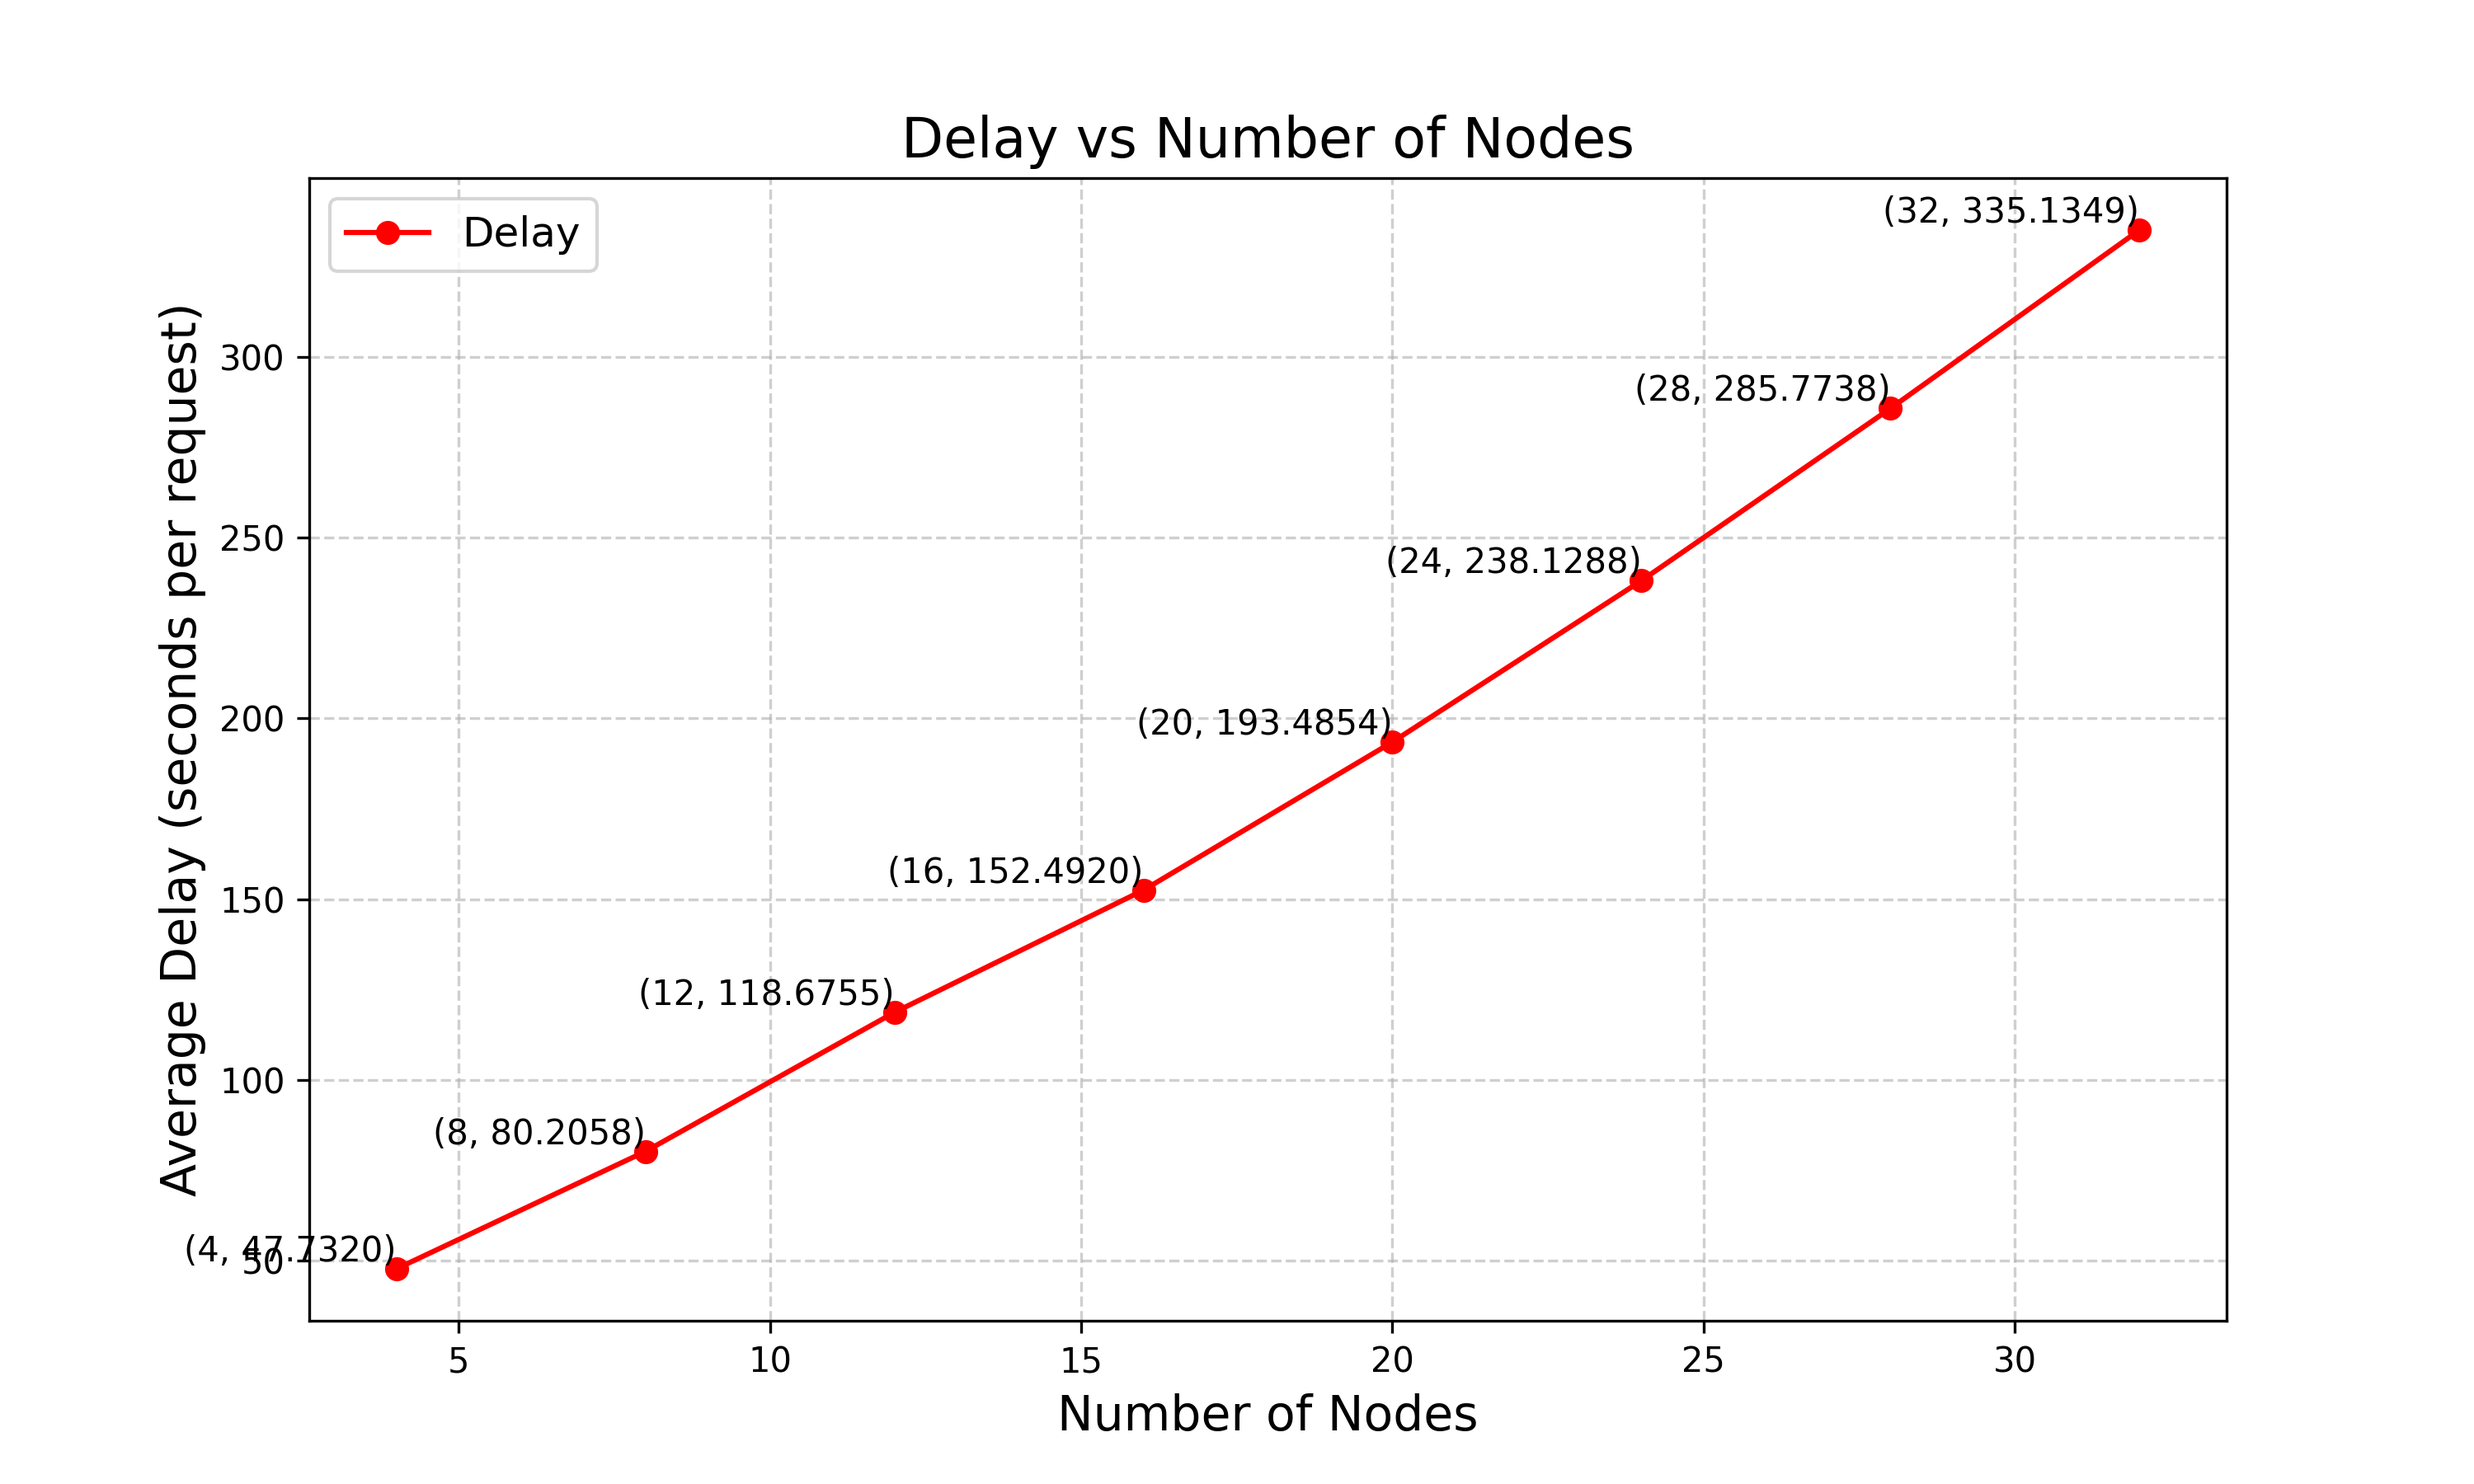
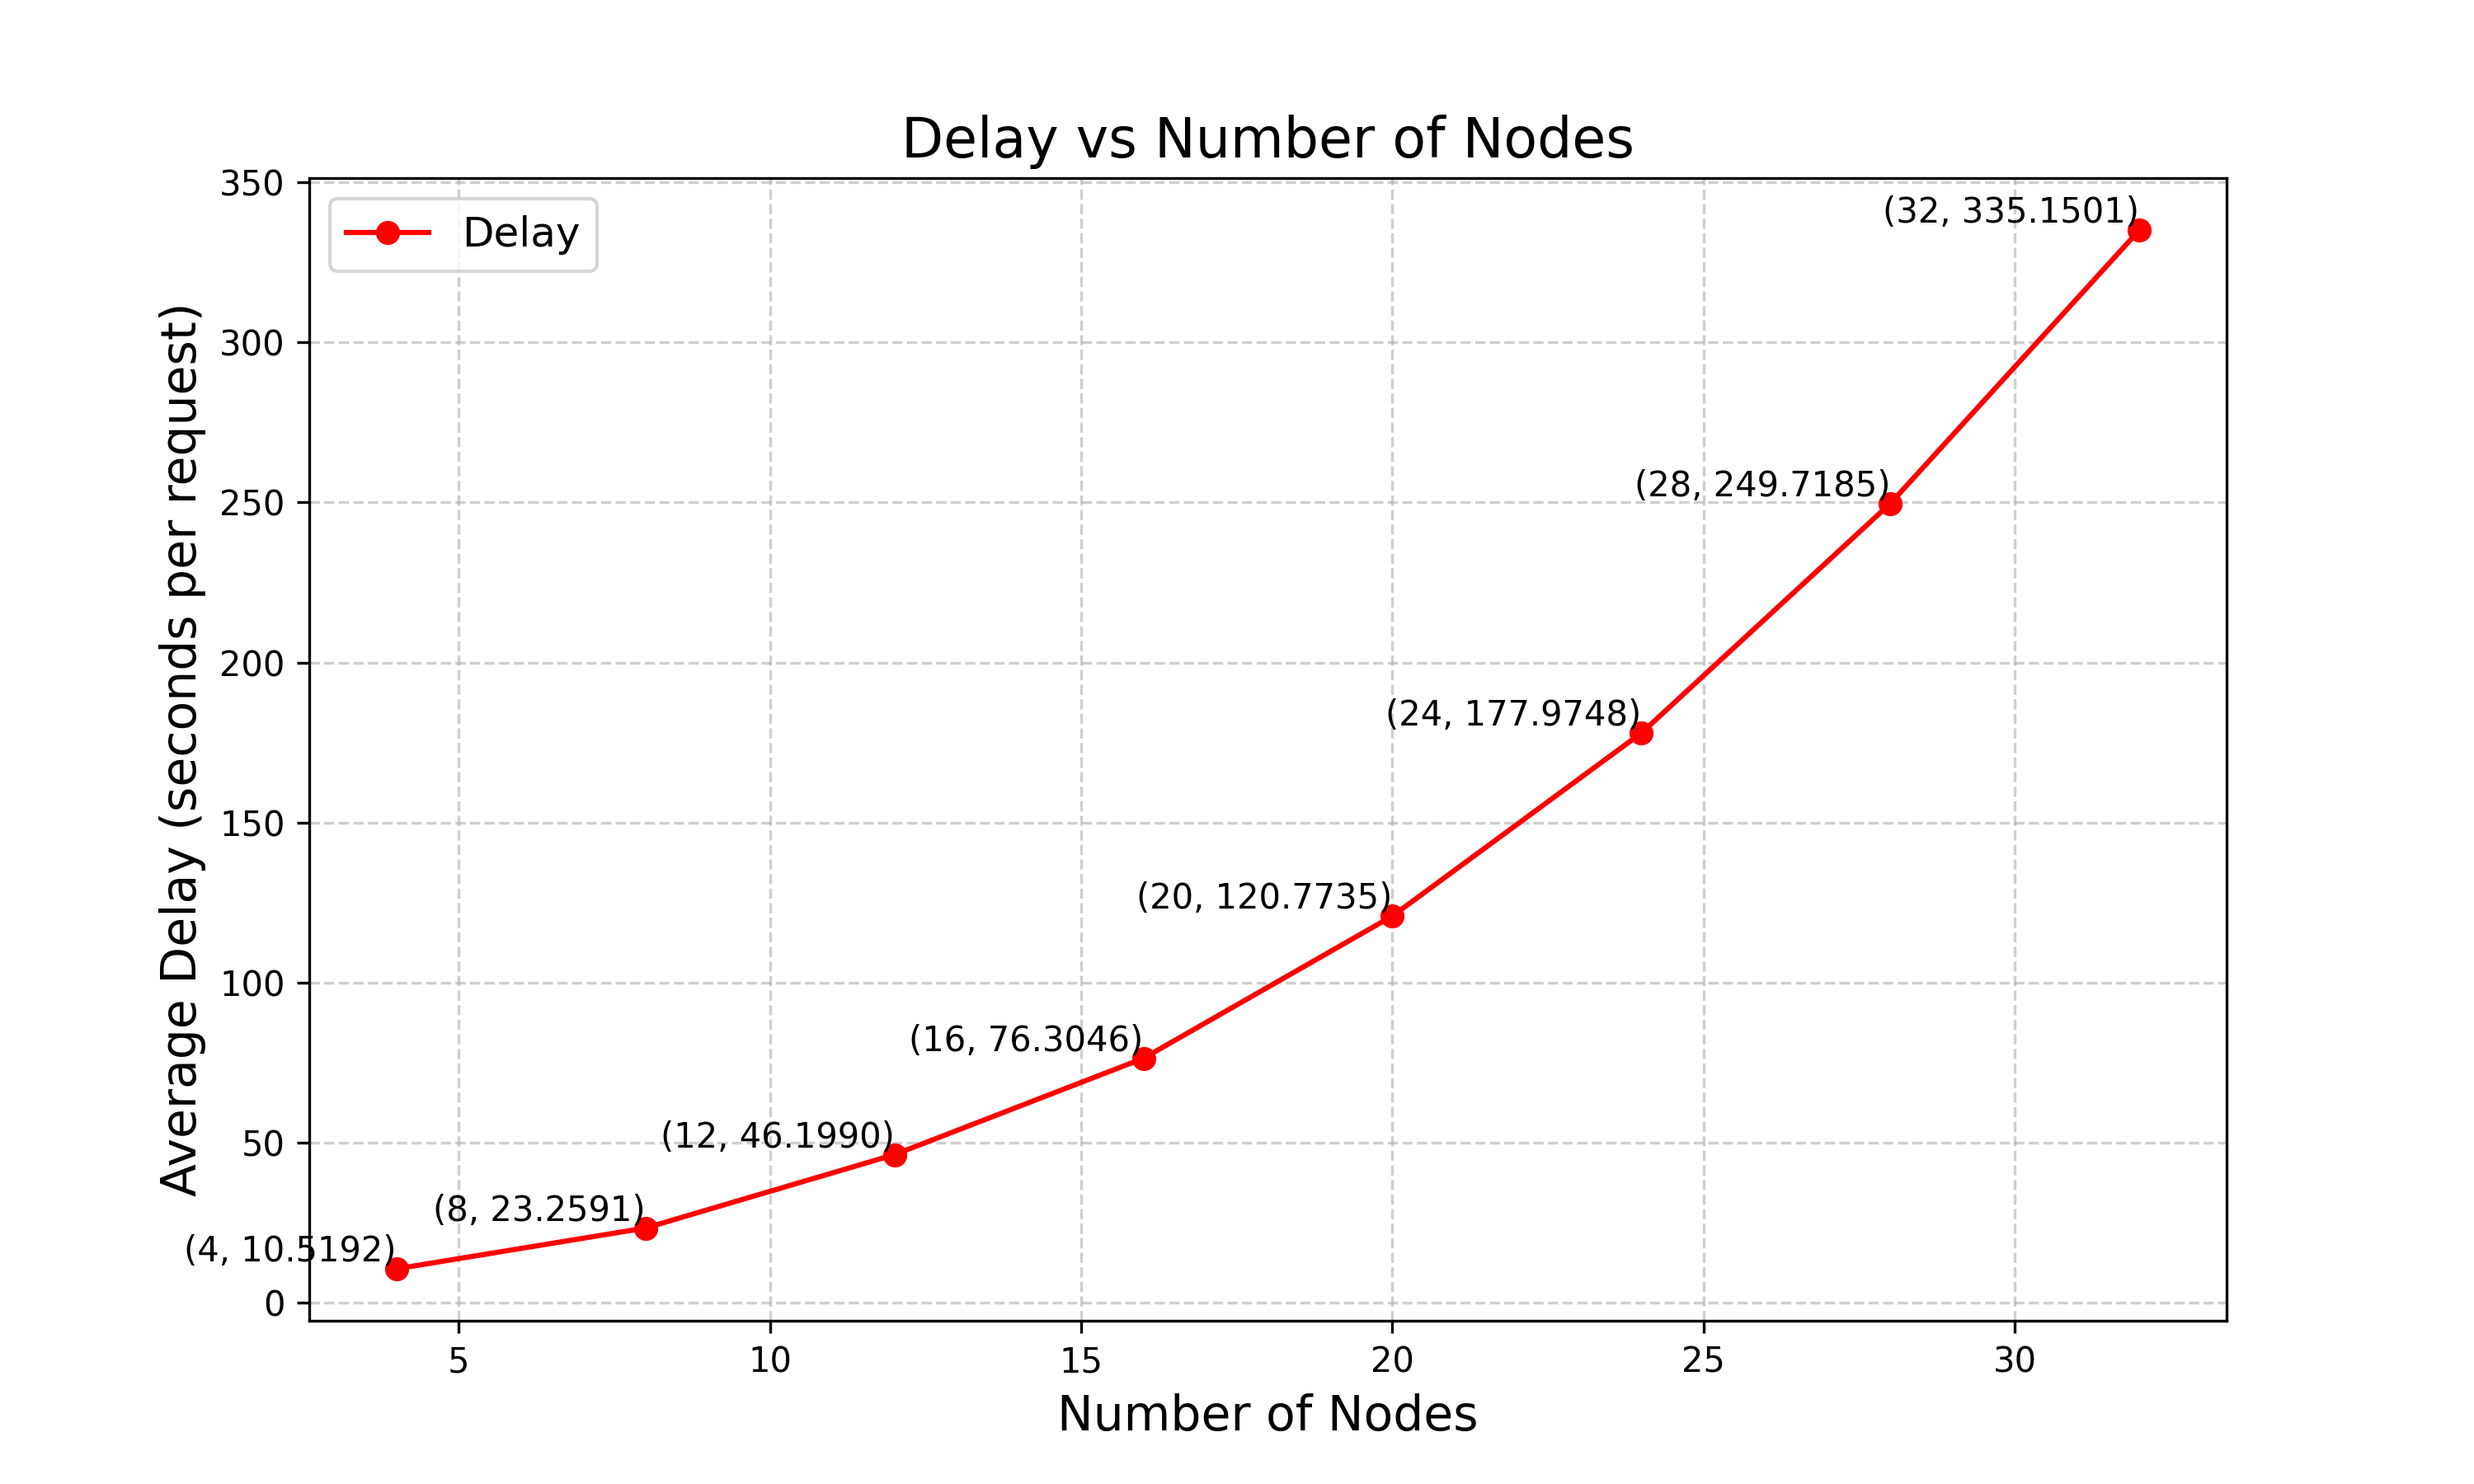
Results with varying node count hopefully done

diff --git a/cloudDelay.py b/cloudDelay.py
@@ -1,53 +1,75 @@
 import re
 from collections import defaultdict
+from ExperimentConfig import (numberOfPortsTakenInExperiment, experimentXAxis, BatchSize,
+                              fileExtName, folderPath, faultPorts, faultName)
 
-from ExperimentConfig import numberOfPortsTakenInExperiment, experimentXAxis, BatchSize, fileExtName
+def calculate_average_delay(folder, ports):
+    """
+    Calculates the average delay for the first 1000 commands by considering issued and all executed timestamps across multiple files.
 
-def calculate_average_delay(file):
-    # Dictionary to store command timestamps
-    command_timestamps = defaultdict(dict)  # Structure: {command: {"issued": timestamp, "executed": timestamp}}
+    :param folder: Path to the folder containing log files.
+    :param ports: List of port numbers to process.
+    :return: Overall average delay (in milliseconds).
+    """
+    # Dictionary to store all timestamps for commands
+    command_timestamps = defaultdict(lambda: {"issued": None, "executed": []})  # {"command": {"issued": timestamp, "executed": [timestamps]}}
+
+    # Process all log files
+    for port in ports:
+        filename = f"{folder}/{port}_log.txt"
+        with open(filename, 'r') as f:
+            lines = f.readlines()
+            for line in lines:
+                # Match `command:` lines that do NOT contain "Executing" (for issued timestamp)
+                if "command:" in line and "Executing" not in line:
+                    command_match = re.search(r'command: ([\d_]+) (\d+)', line)
+                    if command_match:
+                        command = command_match.group(1)  # e.g., "1_0"
+                        # Only consider the first 1000 commands (e.g., "1_0" to "1_999")
+                        node_id, command_number = map(int, command.split("_"))
+                        if command_number < 1000:  # Ensure it's within the first 1000 commands
+                            issued_timestamp = int(command_match.group(2))  # Issued timestamp
+                            if command_timestamps[command]["issued"] is None:
+                                command_timestamps[command]["issued"] = issued_timestamp
+
+                # Match `Executing` lines (for executed timestamps)
+                elif "Executing" in line:
+                    executing_match = re.search(r'Executing \d+th command: ([\d_]+) (\d+)', line)
+                    if executing_match:
+                        command = executing_match.group(1)  # e.g., "1_0"
+                        # Only consider the first 1000 commands (e.g., "1_0" to "1_999")
+                        node_id, command_number = map(int, command.split("_"))
+                        if command_number < 1000:  # Ensure it's within the first 1000 commands
+                            executed_timestamp = int(executing_match.group(2))  # Executed timestamp
+                            command_timestamps[command]["executed"].append(executed_timestamp)
+
+    # Calculate delays
     delays = []
-
-    with open(file, 'r') as f:
-        lines = f.readlines()
-
-        for line in lines:
-            # Match `command:` lines that do NOT contain "Executing"
-            if "command:" in line and "Executing" not in line:
-                command_match = re.search(r'command: ([\d_]+) (\d+)', line)
-                if command_match:
-                    command = command_match.group(1)  # e.g., "1_0"
-                    issued_timestamp = int(command_match.group(2))  # Timestamp of the command issuance
-                    command_timestamps[command]["issued"] = issued_timestamp
-
-            # Match `Executing` lines
-            elif "Executing" in line:
-                executing_match = re.search(r'Executing \d+th command: ([\d_]+) (\d+)', line)
-                if executing_match:
-                    command = executing_match.group(1)  # e.g., "1_0"
-                    executed_timestamp = int(executing_match.group(2))  # Timestamp of the command execution
-                    command_timestamps[command]["executed"] = executed_timestamp
-
-    # print(command_timestamps["1_0"])
-    # print(command_timestamps["1_100"])
-    # print(command_timestamps["1_200"])
-
-    # Calculate delays for all commands
     for command, timestamps in command_timestamps.items():
-        if "issued" in timestamps and "executed" in timestamps:
-            delay = timestamps["executed"] - timestamps["issued"]
-            delays.append(delay)
+        issued_timestamp = timestamps["issued"]
+        executed_timestamps = timestamps["executed"]
 
-    # Calculate the average delay
+        if issued_timestamp is not None and executed_timestamps:
+            # Calculate the delay for all executed timestamps for this command
+            command_delays = [executed - issued_timestamp for executed in executed_timestamps]
+
+            # # Take the average delay for this command
+            # avg_command_delay = sum(command_delays) / len(command_delays)
+
+            # Take the maximum delay for this command
+            avg_command_delay = max(command_delays)
+            delays.append(avg_command_delay)
+
+    # Calculate the overall average delay
     if delays:
-        avg_delay = sum(delays) / len(delays)
-        return avg_delay
+        overall_avg_delay = sum(delays) / len(delays)
+        return overall_avg_delay
     else:
         return None
 
 
 def main():
-    folder = "F:/HISHAM_CSE  ASUS/MSc/CSE 6801/Project/BFT/logsCloudLab/" + str(numberOfPortsTakenInExperiment)
+    folder = folderPath + "" + str(numberOfPortsTakenInExperiment)
 
     ports = [3002, 3003, 3004, 3005,
              3006, 3007, 3008, 3009,
@@ -58,18 +80,19 @@ def main():
              3026, 3027, 3028, 3029,
              3030, 3031, 3032, 3033,]
 
-    all_delays = []
+    # Consider only the ports used in the experiment
+    relevant_ports = ports[:numberOfPortsTakenInExperiment]
 
-    for port in ports[:numberOfPortsTakenInExperiment]:
-        filename = f"{folder}/{port}_log.txt"
-        avg_delay = calculate_average_delay(filename)
-        if avg_delay is not None:
-            all_delays.append(avg_delay)
+    # Consider only the ports that are not faulty
+    if faultName == "fault":
+        good_ports = [port for port in relevant_ports if port not in faultPorts]
+        relevant_ports = good_ports
 
-    # Overall average delay across all ports
-    if all_delays:
-        overall_avg_delay = sum(all_delays) / len(all_delays)
-        print(f"Overall Average Delay: {overall_avg_delay / 1000} s")
+    overall_avg_delay = calculate_average_delay(folder, relevant_ports)
+
+    # Print and save the result
+    if overall_avg_delay is not None:
+        print(f"Overall Average Delay: {overall_avg_delay / 1000} s")  # Convert to seconds
 
         if experimentXAxis == "Nodes":
             with open("results/delayExp_cl" + fileExtName + ".txt", "a") as f:

diff --git a/ExperimentConfig.py b/ExperimentConfig.py
@@ -1,21 +1,25 @@
 # number of ports taken for this experiment
-numberOfPortsTakenInExperiment = 32      # Change this to the number of ports you want to take for the experiment
+numberOfPortsTakenInExperiment = 32 # Change this to the number of ports you want to take for the experiment
 
 experimentMode = "Delay"  # Change this to "Throughput" or "Delay" based on the experiment you want to run
 
-experimentXAxis = "Nodes"  # Change this to "Nodes" or "BatchSize" based on the experiment you want to run
+experimentXAxis = "Nodes"      # Change this to "Nodes" or "BatchSize" based on the experiment you want to run
 
 BatchSize = 1
 
+folderPath = "F:/HISHAM_CSE  ASUS/MSc/CSE 6801/Project/BFT/logsMalice/"
+
 expName = "alea_bft"    # Experiment name: alea_bft or grouped_bft
 
-grpSize = 4             # Group size (if experiment name is grouped_bft)
+grpSize = 8             # Group size (if experiment name is grouped_bft)
 
-faultName = ""          # "" or "fault" based on the experiment you want to run
+faultName = "fault"          # "" or "fault" based on the experiment you want to run
 
 fileExtName = "_" + expName if expName == "alea_bft" else f"_{expName}_{grpSize}"
 
 fileExtName += "_fault" if faultName == "fault" else ""
+
+faultPorts = [3002,3003,3010,3011,3018,3019,3026,3027]   # which ports to fault if faultName is "fault"
 
 RandomPortCountForDelay = 512   # Change this to the number of random ports which should be multiple of BatchSize
 

diff --git a/cloudThroughput.py b/cloudThroughput.py
@@ -1,7 +1,8 @@
-from ExperimentConfig import numberOfPortsTakenInExperiment, experimentXAxis, BatchSize, fileExtName
+from ExperimentConfig import (numberOfPortsTakenInExperiment, experimentXAxis, BatchSize, fileExtName,
+                              folderPath, faultPorts, faultName)
 import re
 
-folder = "F:/HISHAM_CSE  ASUS/MSc/CSE 6801/Project/BFT/logsCloudLab/" + str(numberOfPortsTakenInExperiment)
+folder = folderPath + "" + str(numberOfPortsTakenInExperiment)
 
 ports = [3002, 3003, 3004, 3005,
          3006, 3007, 3008, 3009,
@@ -39,7 +40,14 @@ def get_first_and_last_relevant_lines(file):
 def main():
     throughputs = []
 
-    for port in ports[:numberOfPortsTakenInExperiment]:
+    relevant_ports = ports[:numberOfPortsTakenInExperiment]
+
+    # Consider only the ports that are not faulty
+    if faultName == "fault":
+        good_ports = [port for port in relevant_ports if port not in faultPorts]
+        relevant_ports = good_ports
+
+    for port in relevant_ports:
         filename = f"{folder}/{port}_log.txt"
         first, last, cmdCount = get_first_and_last_relevant_lines(filename)
         first = int(first)
